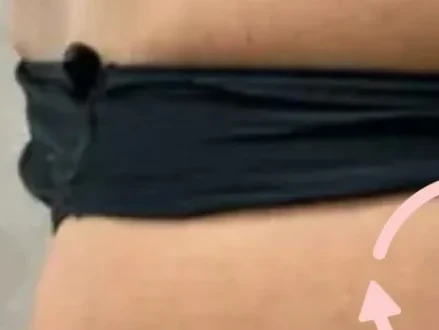
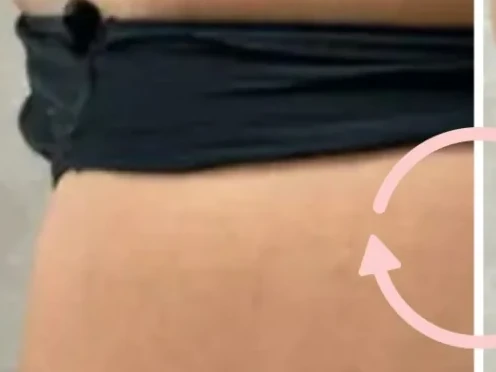
Бедрата: кадърът се отваря, за да се вижда кожата, не ластикът
Общото наместване затвори тази двойка толкова, че в кадъра остана почти само
черният ластик, а подписът говори за кожата на бедрата. Двата оригинала са с
еднакъв размер, значи разстоянието до тялото е същото и мащабът е едно към
едно: наместването е само по височина, по ластика. Той сяда на четвърт от
височината и под него остава бедрото.

diff --git a/procedures/tqlo/index.html b/procedures/tqlo/index.html
@@ -185,9 +185,9 @@
         </div>
         <div data-case="" style="display: none;">
           <div data-ba-stage="" style="position: relative; width: 100%; aspect-ratio: 4 / 3; overflow: hidden; border-radius: 5px; background: #DCCBB4; cursor: ew-resize; touch-action: none; box-shadow: 0 20px 48px rgba(160,140,125,0.28);">
-            <image-slot id="tqlo-zone5-after" shape="rect" src="../../assets/img/transformacii/pairs/bedra-01-sled.webp?v=4" fit="cover" placeholder="Бедра: снимка СЛЕД" style="position: absolute; inset: 0;"></image-slot>
+            <image-slot id="tqlo-zone5-after" shape="rect" src="../../assets/img/transformacii/pairs/bedra-01-sled.webp?v=5" fit="cover" placeholder="Бедра: снимка СЛЕД" style="position: absolute; inset: 0;"></image-slot>
             <div data-ba-before="" style="position: absolute; inset: 0; clip-path: inset(0 50% 0 0);">
-              <image-slot id="tqlo-zone5-before" shape="rect" src="../../assets/img/transformacii/pairs/bedra-01-predi.webp?v=4" fit="cover" placeholder="Бедра: снимка ПРЕДИ" style="position: absolute; inset: 0;"></image-slot>
+              <image-slot id="tqlo-zone5-before" shape="rect" src="../../assets/img/transformacii/pairs/bedra-01-predi.webp?v=5" fit="cover" placeholder="Бедра: снимка ПРЕДИ" style="position: absolute; inset: 0;"></image-slot>
             </div>
             <span style="position: absolute; top: 1rem; left: 1rem; padding: 0.4rem 0.95rem; background: rgba(38,35,32,0.72); color: #F8F4ED; font-size: 0.8rem; font-weight: 700; letter-spacing: 0.16em; text-transform: uppercase;">Преди</span>
             <span style="position: absolute; top: 1rem; right: 1rem; padding: 0.4rem 0.95rem; background: linear-gradient(135deg, #E4C98F 0%, #B8934F 52%, #8A6B3F 100%); border-radius: 5px; color: #241A12; font-size: 0.8rem; font-weight: 700; letter-spacing: 0.16em; text-transform: uppercase;">След</span>
